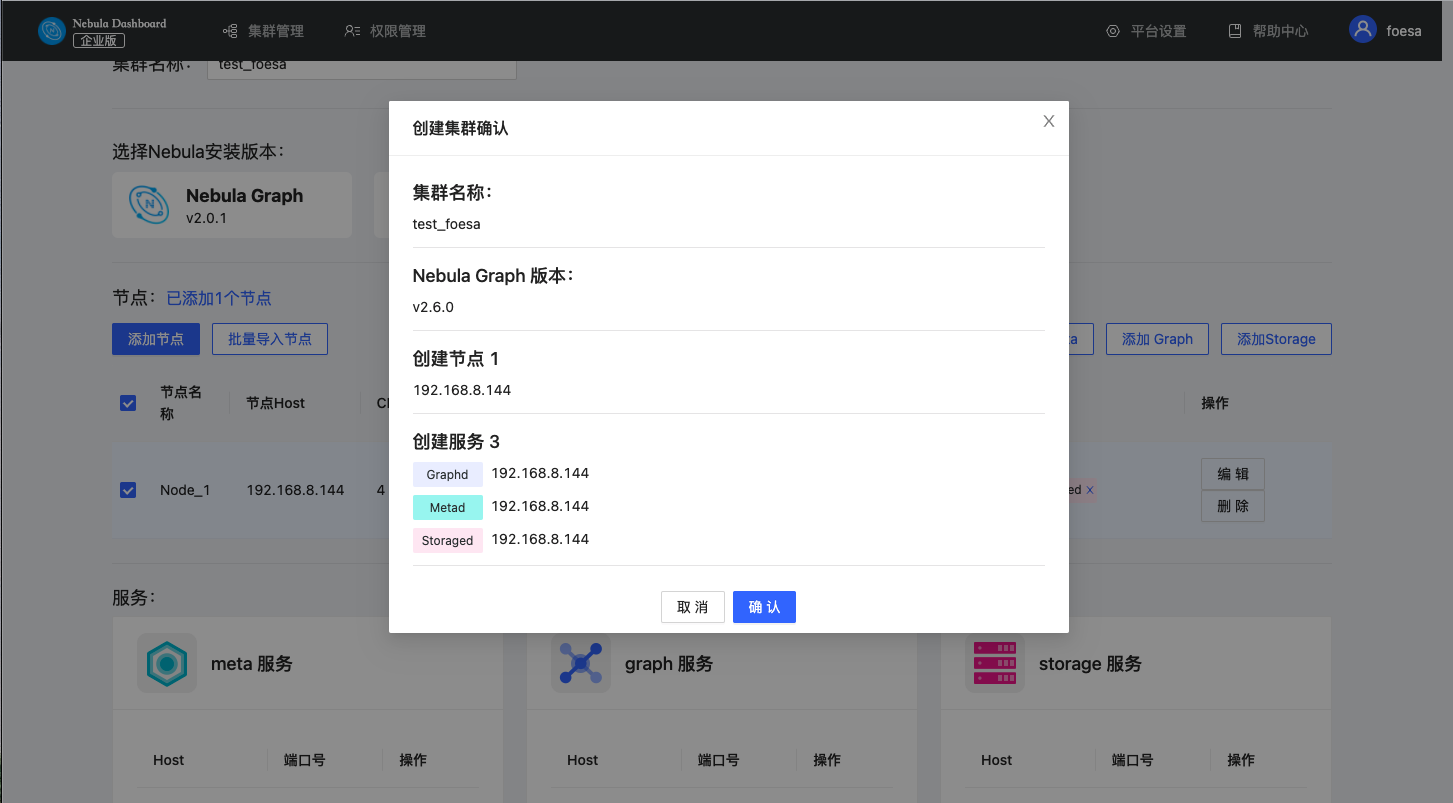
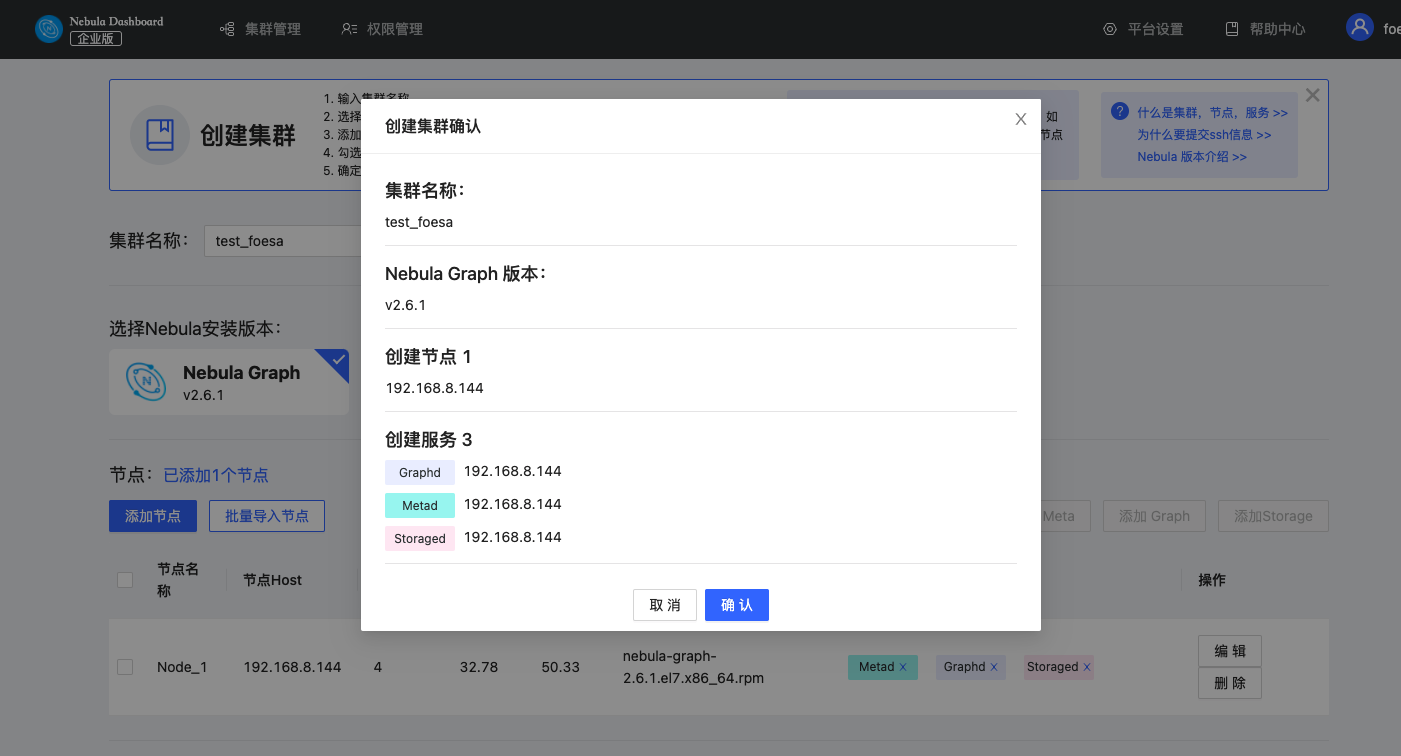
update

diff --git a/docs-2.0/nebula-dashboard-ent/3.create-import-dashboard/2.import-cluster.md b/docs-2.0/nebula-dashboard-ent/3.create-import-dashboard/2.import-cluster.md
@@ -8,7 +8,7 @@
 
     在同一集群下，服务需要统一版本。不支持在同一集群中导入不同版本的Nebula Graph实例。
 
-1. 在集群列表页面，点击 **导入集群** 标签。
+1. 在集群管理页面，点击 **导入集群** 标签。
 2. 在导入集群页面，输入连接Nebula Graph的信息：
   - Graphd Host：<其中一个Graphd进程的虚机IP>:<端口号>。本示例设置为 `192.168.8.157:9669`。
   - 用户名：连接Nebula Graph的账号，本示例设置为`vesoft`。
@@ -26,7 +26,7 @@
    - 对节点进行 **授权**，授权需输入每个节点的 SSH 用户名及密码。
    - **批量授权**需要上传CSV文件。请根据下载的CSV文件，编辑每个节点授权信息，尽量确保节点信息正确，否则容易造成上传失败。
    ![批量授权](../figs/ds-026.png)
-   - 页面中节点状变为 **已授权**，则该节点授权成功。
+   - 页面中节点状态变为 **已授权**，则该节点授权成功。
    ![授权](../figs/ds-027.png)
 
 4. 确保所有节点都授权成功，点击 **导入集群**。

diff --git a/docs-2.0/nebula-dashboard-ent/8.faq.md b/docs-2.0/nebula-dashboard-ent/8.faq.md
@@ -40,3 +40,7 @@ Meta服务主要存储Nebula Graph数据库中的元数据。一旦Meta服务出
 - 确保License未过期。
 
 用户也可以在Dashboard目录中执行`cat logs/webserver.log`查看各个模块的启动信息。如果满足以上条件，仍无法启动Dashboard，请前往 [Nebula Graph 官方论坛](https://discuss.nebula-graph.com.cn/ "点击前往 Nebula Graph 官方论坛") 咨询。
+
+## 是否可以手动添加Nebula Graph安装包？
+
+Dashboard支持手动添加安装包，可以点击 [如何获取 Nebula Graph](https://nebula-graph.com.cn/download/) 下载所需系统和版本的RPM包或DEB包，添加到`dashboard/download/nebula-graph`路径下。在创建、扩容集群时，可选择添加的包进行部署。
